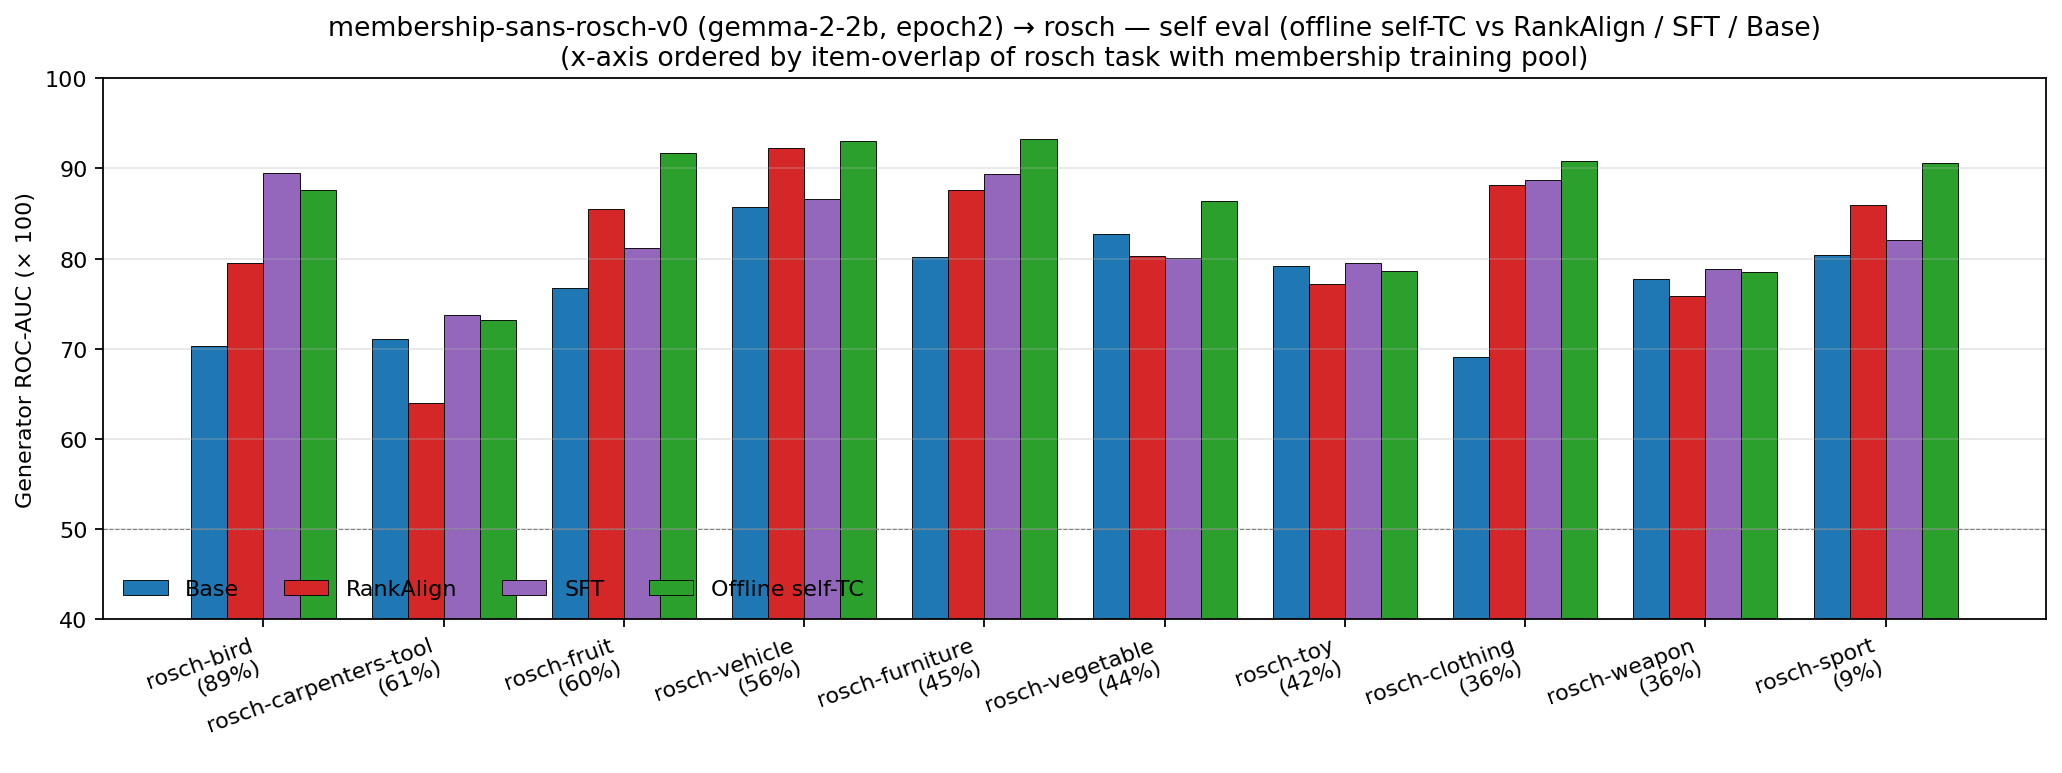
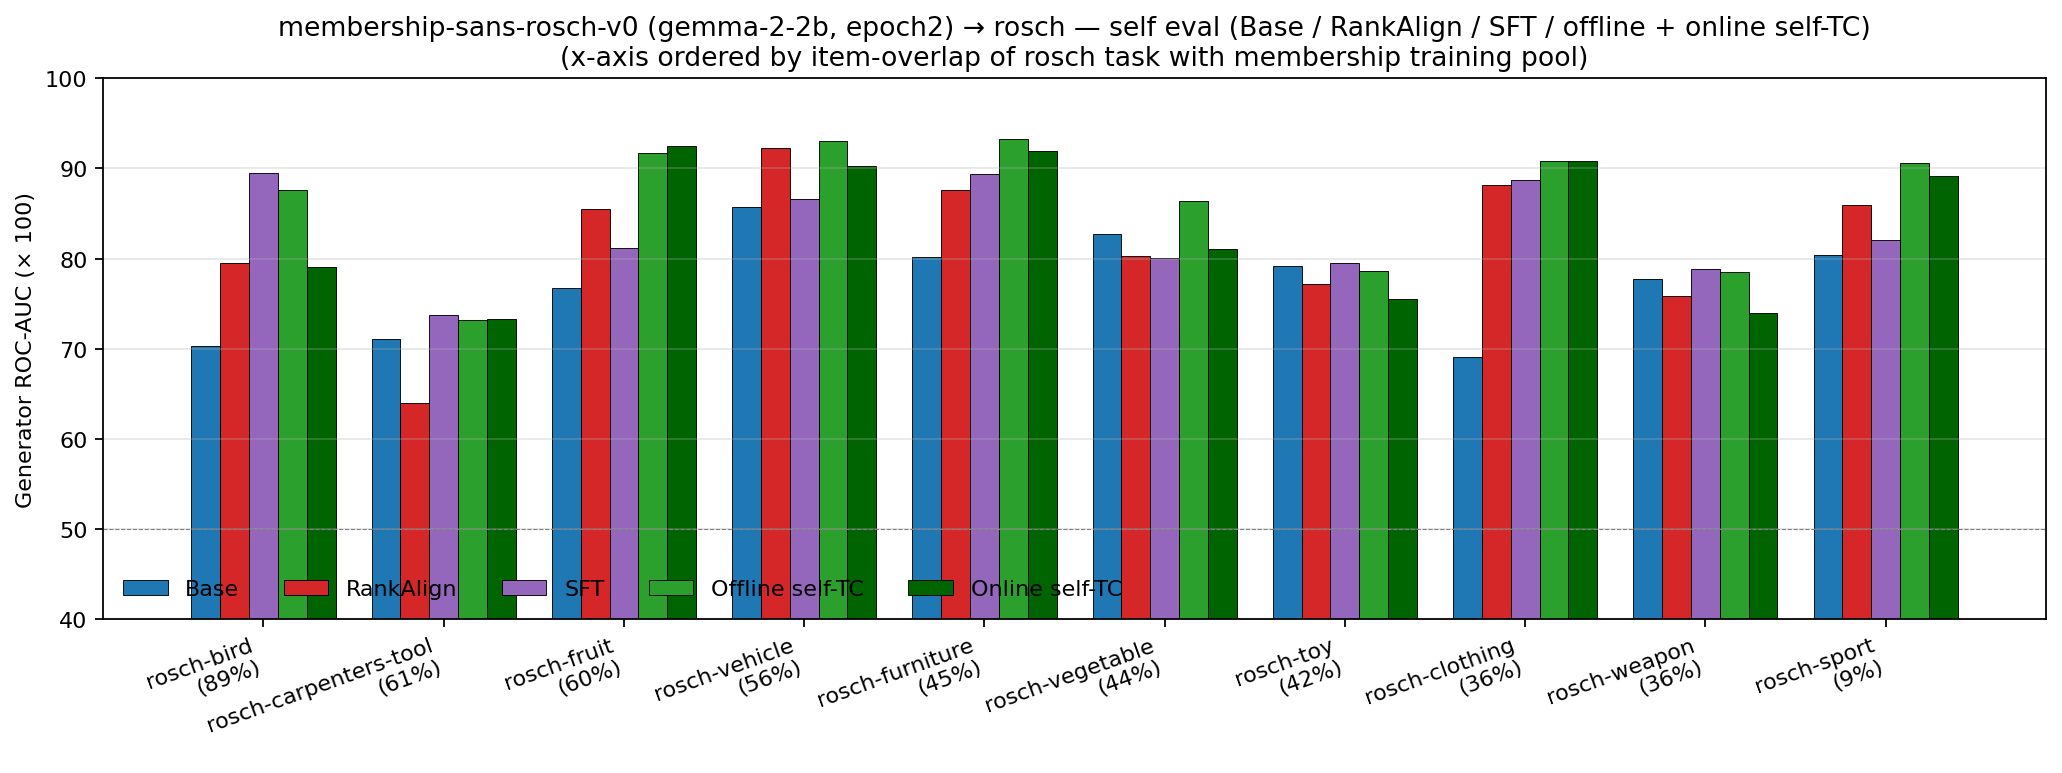
membership->rosch bar plots: add online self/neg-TC bars

diff --git a/scripts/plot_membership_to_rosch_per_task.py b/scripts/plot_membership_to_rosch_per_task.py
@@ -4,8 +4,8 @@ ordered along the x-axis by item-overlap with the membership training pool
 (highest overlap on the left, rosch-sport on the right).
 
 Two output plots, by default:
-    per_task_gen_roc_self.png — base, rankalign, sft, offline-self-TC
-    per_task_gen_roc_neg.png  — base, rankalign, sft, offline-neg-TC
+    per_task_gen_roc_self.png — base, rankalign, sft, offline+online self-TC
+    per_task_gen_roc_neg.png  — base, rankalign, sft, offline+online neg-TC
 
 Both use the matched-side eval ref (self for the first; neg for the second),
 except offline-{self,neg}-TC which uses basetyp / basetypneg respectively
@@ -54,13 +54,21 @@ SELF_PLOT = [
     ("1", "self",    "RankAlign",       "tab:red"),
     ("6", "self",    "SFT",             "tab:purple"),
     ("2", "basetyp", "Offline self-TC", "tab:green"),
+    ("3", "self",    "Online self-TC",  "darkgreen"),
 ]
 NEG_PLOT = [
     ("0", "neg",        "Base",           "tab:blue"),
     ("1", "neg",        "RankAlign",      "tab:red"),
     ("6", "neg",        "SFT",            "tab:purple"),
     ("7", "basetypneg", "Offline neg-TC", "tab:green"),
+    ("8", "neg",        "Online neg-TC",  "darkgreen"),
 ]
+
+# The wide markdown table keeps its original 4+4 layout (only one TC variant
+# per side, matching the canonical "best per row" eval ref). Bar plots show
+# both offline and online TC, but the table stays compact.
+SELF_TABLE = SELF_PLOT[:4]
+NEG_TABLE  = NEG_PLOT[:4]
 
 # Heatmap configs: ALL relevant variants per side, in a logical order
 # (reference -> SFT -> preference no-TC -> TC × pair-selection grid).
@@ -169,7 +177,7 @@ def make_plot(long: pd.DataFrame, plot_config, out_path: Path,
     )
     ax.set_ylim(40, 100)
     ax.axhline(50, color="gray", linewidth=0.5, linestyle="--")
-    ax.legend(loc="lower left", ncol=4, frameon=False)
+    ax.legend(loc="lower left", ncol=n_bars, frameon=False)
     ax.grid(axis="y", alpha=0.3)
 
     fig.tight_layout()
@@ -247,8 +255,8 @@ def make_table(long: pd.DataFrame, out_path: Path) -> None:
     """Wide HTML-in-markdown table: 1 + 4 + 4 columns with a self/neg
     multi-column top header row, ordinary 4-variant header below it.
     Bold = row max across all 8 numeric cells."""
-    self_labels = [label for _, _, label, _ in SELF_PLOT]
-    neg_labels  = [label for _, _, label, _ in NEG_PLOT]
+    self_labels = [label for _, _, label, _ in SELF_TABLE]
+    neg_labels  = [label for _, _, label, _ in NEG_TABLE]
 
     parts = [
         "# membership-sans-rosch-v0 (gemma-2-2b, epoch2) → rosch — "
@@ -284,7 +292,7 @@ def make_table(long: pd.DataFrame, out_path: Path) -> None:
 
     for tname, overlap in TASKS_BY_OVERLAP:
         vals = []
-        for vid, eval_ref, _label, _color in SELF_PLOT + NEG_PLOT:
+        for vid, eval_ref, _label, _color in SELF_TABLE + NEG_TABLE:
             vals.append(get_value(long, vid, eval_ref, tname))
         idx_max = int(np.nanargmax(vals))
         cells = []
@@ -324,9 +332,9 @@ def main():
 
     OUT_DIR.mkdir(parents=True, exist_ok=True)
     make_plot(long, SELF_PLOT, OUT_DIR / "per_task_gen_roc_self.png",
-              "self eval (offline self-TC vs RankAlign / SFT / Base)")
+              "self eval (Base / RankAlign / SFT / offline + online self-TC)")
     make_plot(long, NEG_PLOT, OUT_DIR / "per_task_gen_roc_neg.png",
-              "neg eval (offline neg-TC vs RankAlign / SFT / Base)")
+              "neg eval (Base / RankAlign / SFT / offline + online neg-TC)")
     make_table(long, OUT_DIR / "per_task_gen_roc_table.md")
     make_heatmap(long, SELF_HEATMAP,
                  OUT_DIR / "per_task_gen_roc_heatmap_self.png",
